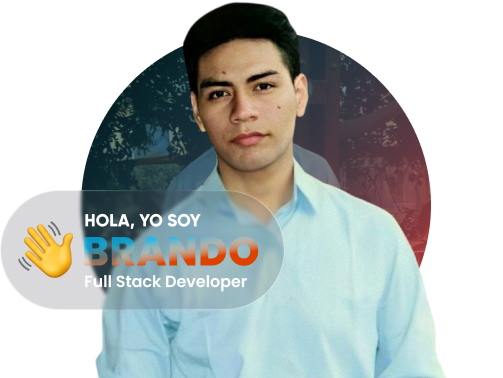
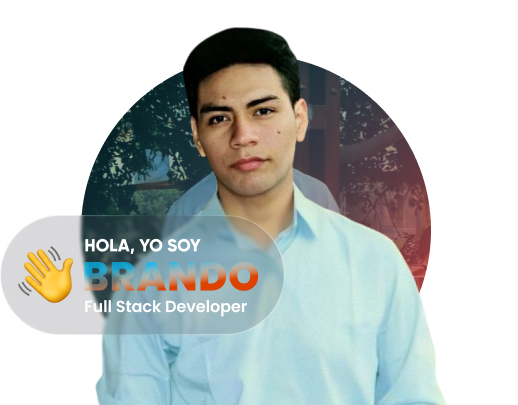
subo

diff --git a/style.css b/style.css
@@ -16,7 +16,7 @@
         }
         .img-bg{
             position: absolute;
-            top: 120px;
+            top: 150px;
             left: 0px;
             object-fit: cover;
             object-position: center center;
